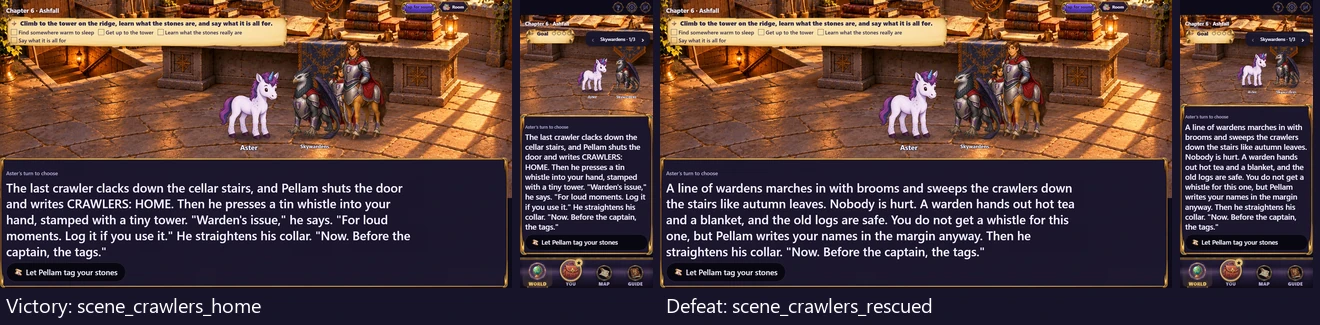
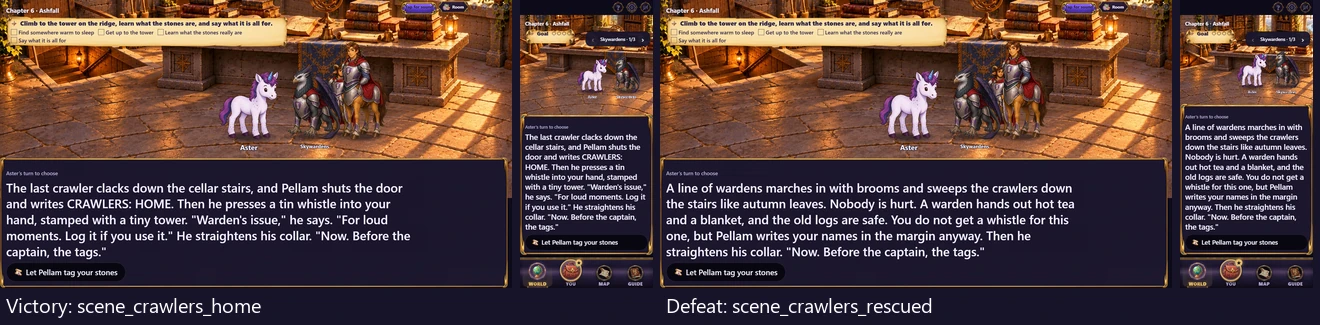
Fix portrait backdrop framing and refresh chapter 06 captures

diff --git a/packages/client/src/world/scene.ts b/packages/client/src/world/scene.ts
@@ -145,7 +145,7 @@ const ACTOR_HEIGHT = DESIGN.height * 0.56;
  * figures' feet, wherever the stage has had to move them.
  */
 export const BACKDROP_FLOOR = DESIGN.height * 0.8;
-/** How far the painting runs under the narration plate before it ends. */
+/** Maximum overlap beneath the plate; narrow panes need less to avoid excess zoom. */
 const BACKDROP_TAIL_PX = 48;
 
 /**
@@ -170,12 +170,13 @@ export function backdropFit(
   if (!(feetY > 0)) {
     return { scale: cover, x: (pane.width - DESIGN.width * cover) / 2, y: (pane.height - DESIGN.height * cover) / 2 };
   }
+  const tail = Math.min(BACKDROP_TAIL_PX, pane.width * 0.03);
   const scale = Math.min(
     cover * 3,
     Math.max(
       (pane.width + bleed * 2) / DESIGN.width,
       (feetY + bleed) / BACKDROP_FLOOR,
-      (stageBottom + BACKDROP_TAIL_PX - feetY) / (DESIGN.height - BACKDROP_FLOOR),
+      (stageBottom + tail - feetY) / (DESIGN.height - BACKDROP_FLOOR),
     ),
   );
   return { scale, x: (pane.width - DESIGN.width * scale) / 2, y: feetY - BACKDROP_FLOOR * scale };

diff --git a/packages/client/src/world/scene.test.ts b/packages/client/src/world/scene.test.ts
@@ -735,6 +735,17 @@ describe("backdropFit: nobody floats", () => {
     expect(fit.scale).toBeCloseTo(1.2);
     expect(fit.y).toBeCloseTo(0);
   });
+
+  it("keeps midground landmarks below the phone's upper UI without moving the floor", () => {
+    const fit = backdropFit({ width: 390, height: 844 }, 300, 380, 0);
+    // The records-hall books sit halfway down the painting. They need to
+    // appear below the ~135px chapter/goal controls rather than behind them.
+    expect(fit.y + 450 * fit.scale).toBeGreaterThan(135);
+    expect(fit.y + BACKDROP_FLOOR * fit.scale).toBeCloseTo(300);
+    expect(fit.y + 900 * fit.scale).toBeGreaterThan(380);
+    expect(fit.x).toBeLessThanOrEqual(0);
+    expect(fit.x + 1600 * fit.scale).toBeGreaterThanOrEqual(390);
+  });
 });
 
 describe("a new pane", () => {

diff --git a/docs/review/gemfall-06-fights/README.md b/docs/review/gemfall-06-fights/README.md
@@ -27,6 +27,11 @@ The capture waits for narration, decoded artwork and the temporary recap card
 to clear. Phone captures use the World tab at 390×844; TV captures are 1920×1080.
 The mobile guest carousel shows one guest group at a time, as it does in play.
 
+Review found that the fixed 48-pixel backdrop overlap beneath the narration
+plate zoomed the phone painting too far in. The overlap now scales with pane
+width, capped at 48 pixels. The refreshed phone capture shows the stone table
+and open watch-log while retaining foreground space and floor alignment.
+
 | TV | Phone |
 |---|---|
 | ![Records hall on TV](scene_crawlers_hall-tv.png) | ![Records hall on phone](scene_crawlers_hall-phone.png) |
@@ -48,7 +53,7 @@ Generated on 2026-10-26 with the built-in image generation tool, using the
 existing `facet-table.webp` as the style and architecture reference. The stone
 table follows chapter 06's text. Targeted revisions make the cellar stairwell
 descend below the hall floor and place the books within the phone's central
-crop. Exact generation and revision prompts, source and
+composition. Exact generation and revision prompts, source and
 production hashes, reference hash and export settings are recorded in
 [the source record](../../../art/source/gemfall-06-fight.json).
 
@@ -64,7 +69,9 @@ The 68 focused Gemfall compatibility/interaction/wiring and client
 presentation/prefetch checks, typecheck, production build and revised TV/phone
 capture also pass. The local Windows payload gate reports 319/320 KB first paint
 and 1461/1460 KB total, as in the preceding batches; CI's Linux build must confirm
-its gate before merge. No production client code or payload cap changes are made.
+its gate before merge. The framing fix adds a regression test covering phone
+landmark visibility, floor alignment and stage coverage; all 45 stage tests pass.
+The payload cap remains unchanged.
 
 Issue #497 remains open. This brings its fight paintings to 12 of 16 painted
 and wired. Chapter 07's three pursuit fights are next, followed by chapter 08;
